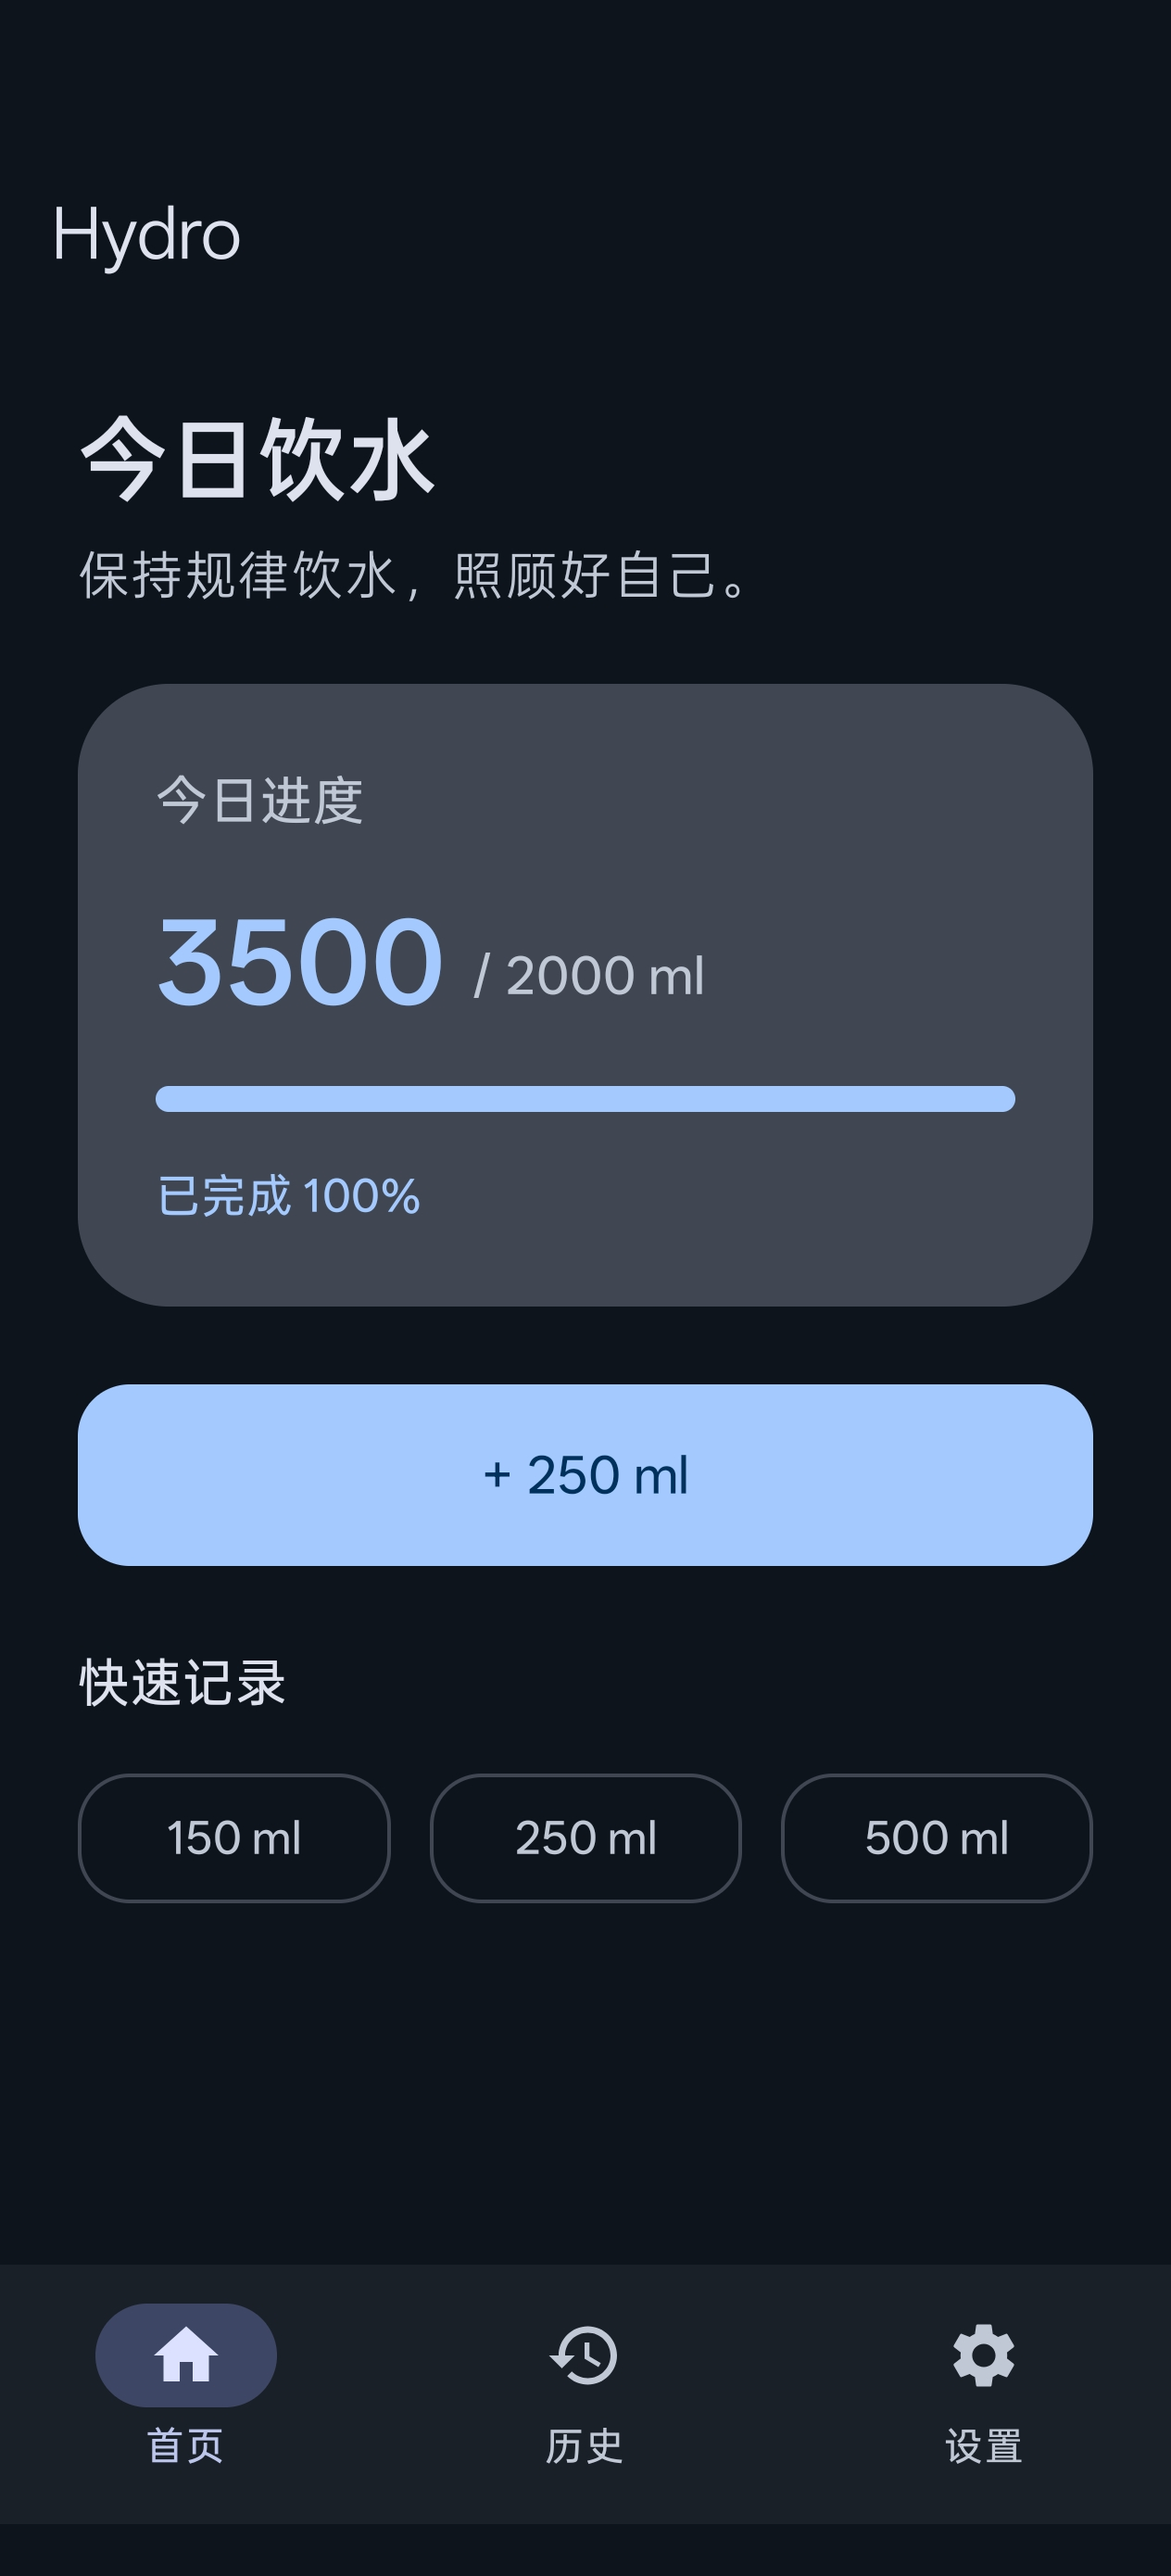
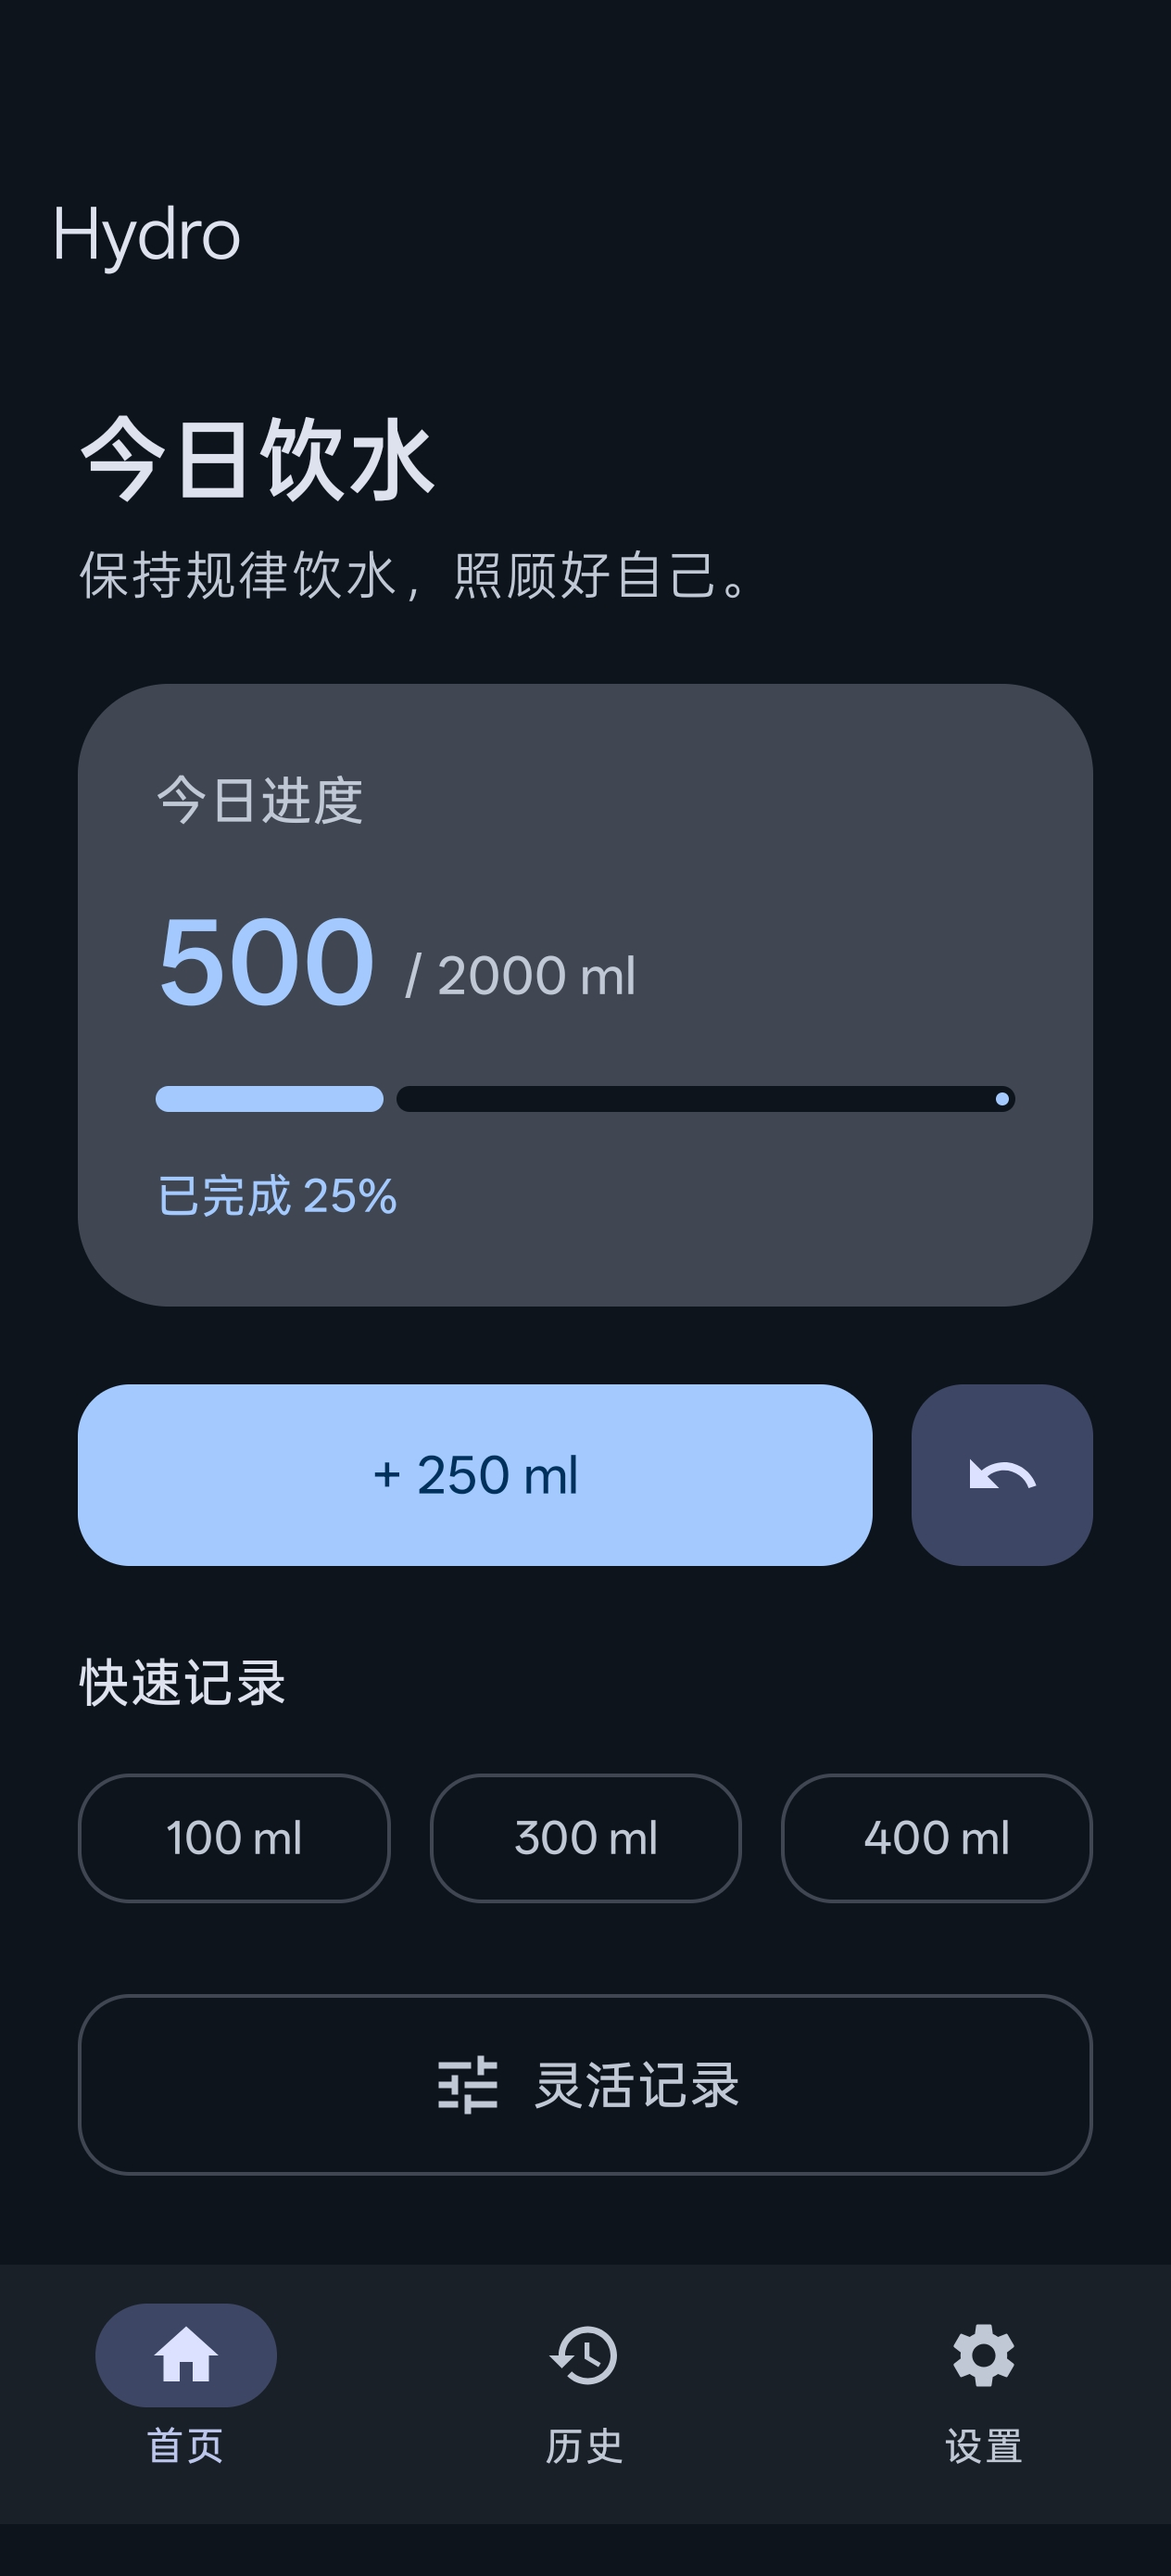
docs: refresh README and home screenshot

diff --git a/README.md b/README.md
@@ -1,6 +1,8 @@
 # Hydro 💧
 
-一个简单、清爽的 Android 饮水记录 App。
+Material Design 3风格的 Android 饮水记录 App。
+
+个人Vibe Coding小项目，不喜勿喷
 
 记录每天喝了多少水，看看自己有没有达到今日目标。
 
@@ -12,7 +14,6 @@
 - 撤回上一次饮水记录
 - 查看历史饮水记录
 - 本地持久化保存数据（离线可用）
-- Material Design 3 界面
 - 支持深色模式
 
 ## 截图
@@ -20,10 +21,6 @@
 | 首页 | 历史 | 设置 |
 | --- | --- | --- |
 | ![Hydro 首页](screenshots/home.png) | ![Hydro 历史](screenshots/history.png) | ![Hydro 设置](screenshots/settings.png) |
-
-## 下载
-
-当前版本为 [v2.0.0](../../releases/tag/v2.0.0)。
 
 ## 技术栈
 
@@ -33,19 +30,6 @@
 - Room
 - DataStore
 
-## 关于这个项目
-
-Hydro 是一个个人小项目。我想做一个简单的饮水记录工具，并从零开始尝试现代 Android 技术栈。
-
-这个项目也是学习 Android 开发，以及尝试 Vibe Coding 的一个小实验。
-
 ## 许可证
 
 本项目使用 [MIT License](LICENSE)。
-
-## 作者
-
-Yc-Cc21  
-GitHub: [https://github.com/Yc-Cc21](https://github.com/Yc-Cc21)
-
-用 💧 和一点点 Vibe Coding 完成。
